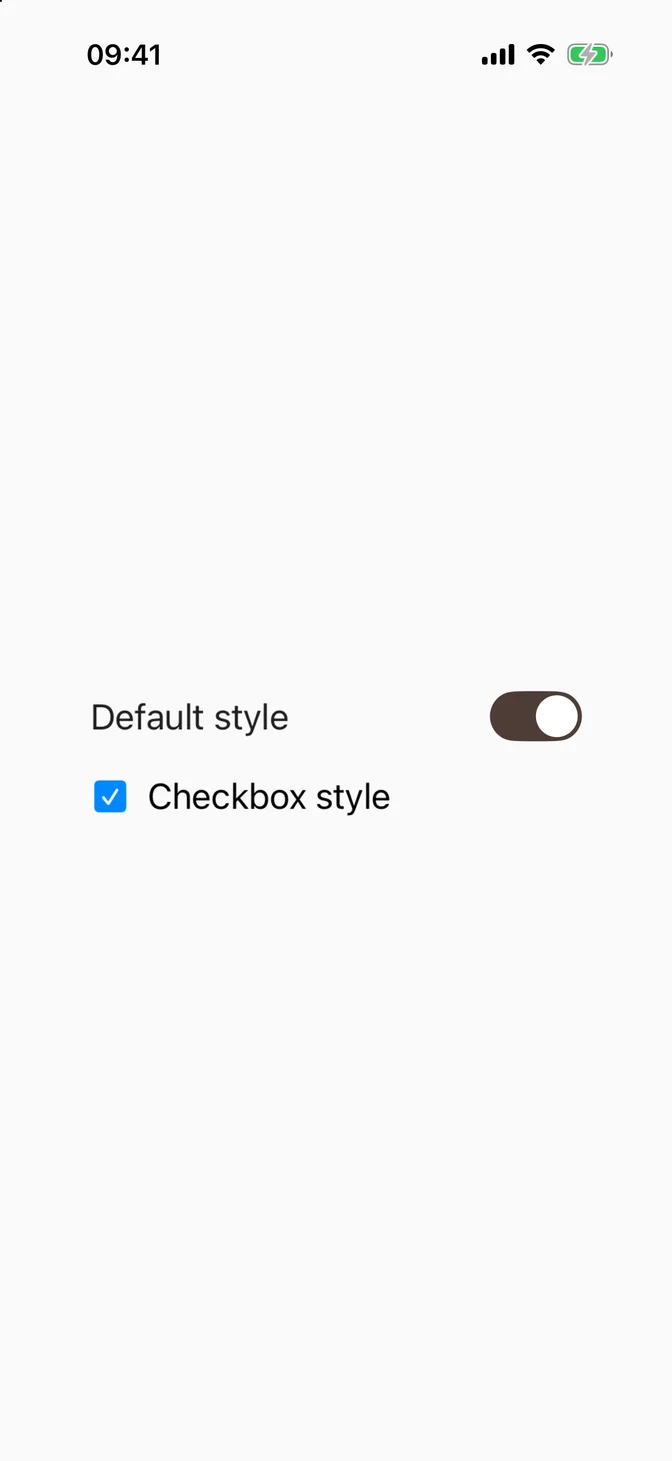
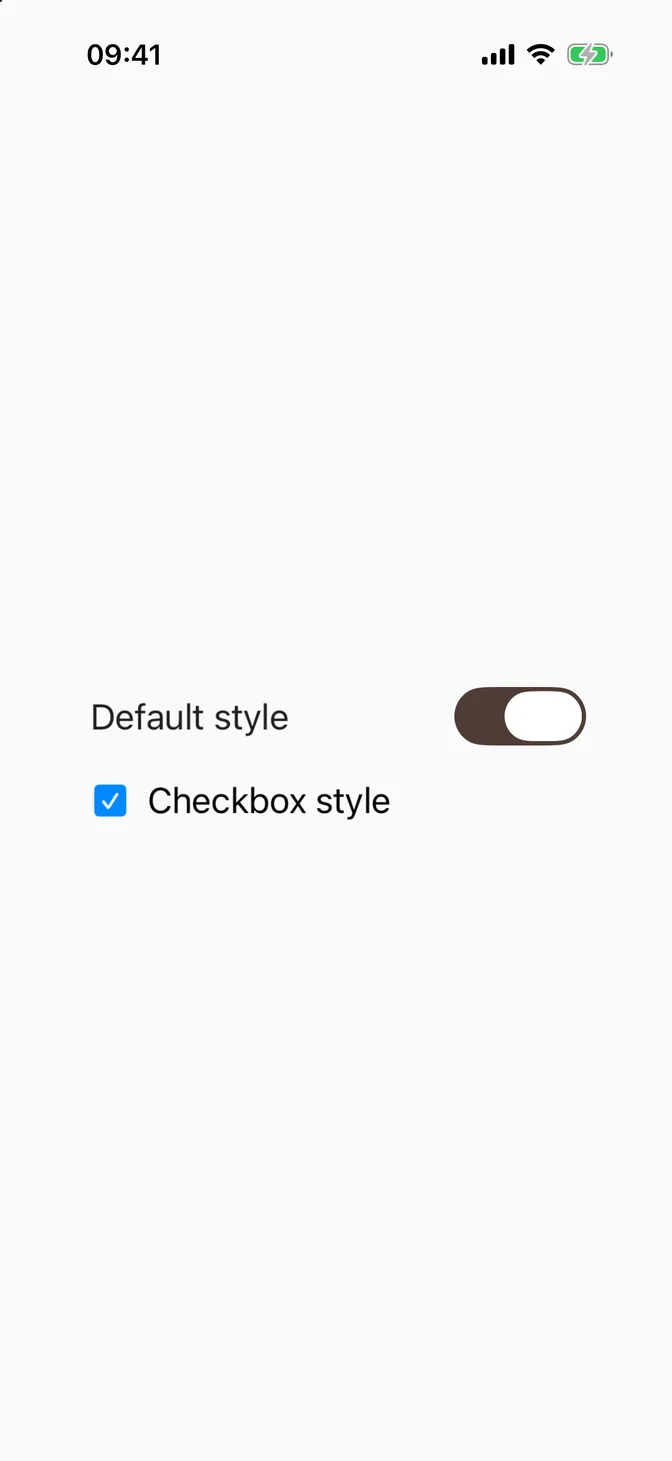
Restore the Default dark primary and tint only the switch
- Default preset, globals.css and the theme picker swatch go back to the
  near-white dark primary with dark text.
- The iOS switch track uses the light-mode primary in both appearances,
  since the native thumb is always white; the Toggle page says so.
- Recapture the Toggle previews (iOS and macOS) with the native controls.
- Rebuild public/r.

Changed region(s): [[0.6562, 0.462, 0.875, 0.5236], [0.2188, 0.5236, 0.5938, 0.5544], [0.125, 0.5236, 0.1875, 0.5852]]

diff --git a/registry/components/toggle/FLXToggleStyle+iOS.swift b/registry/components/toggle/FLXToggleStyle+iOS.swift
@@ -1,5 +1,6 @@
 #if os(iOS)
 import SwiftUI
+import UIKit
 
 struct FLXToggleStyleBody: View {
     @Environment(\.flxTheme) private var theme
@@ -9,9 +10,17 @@ struct FLXToggleStyleBody: View {
     var body: some View {
         Toggle(configuration)
             .toggleStyle(.switch)
-            .tint(theme.colors.primary)
+            .tint(trackTint)
             .flxFont(.body)
             .foregroundStyle(theme.colors.foreground)
+    }
+
+    /// The native switch's thumb is always white, so a light dark-mode `primary`
+    /// (shadcn's near-white) would hide it. The track keeps the light-mode
+    /// `primary` in both appearances instead.
+    private var trackTint: Color {
+        let light = UITraitCollection(userInterfaceStyle: .light)
+        return Color(uiColor: UIColor(theme.colors.primary).resolvedColor(with: light))
     }
 }
 #endif

diff --git a/registry/design-system/Theme/Presets/FLXTheme+Default.swift b/registry/design-system/Theme/Presets/FLXTheme+Default.swift
@@ -29,11 +29,11 @@ extension FLXTheme {
             ),
             primary: Color(
                 flxLight: Color(red: 0.3060, green: 0.2392, blue: 0.2157),
-                dark: Color(red: 0.5412, green: 0.4157, blue: 0.3686)
+                dark: Color(red: 0.9883, green: 0.9883, blue: 0.9883)
             ),
             primaryForeground: Color(
                 flxLight: Color(red: 1.0000, green: 1.0000, blue: 1.0000),
-                dark: Color(red: 1.0000, green: 1.0000, blue: 1.0000)
+                dark: Color(red: 0.0313, green: 0.1019, blue: 0.1059)
             ),
             secondary: Color(
                 flxLight: Color(red: 0.9411, green: 0.9411, blue: 0.9411),

diff --git a/app/(home)/components/showcase/theme-picker.tsx b/app/(home)/components/showcase/theme-picker.tsx
@@ -5,7 +5,7 @@ import { cn } from "@/lib/utils"
 export type ShowcaseTheme = "default" | "sienna"
 
 const themes: { id: ShowcaseTheme; name: string; swatch: string }[] = [
-  { id: "default", name: "Default", swatch: "bg-[#4e3d37] dark:bg-[#8a6a5e]" },
+  { id: "default", name: "Default", swatch: "bg-[#4e3d37] dark:bg-[#fcfcfc]" },
   { id: "sienna", name: "Sienna", swatch: "bg-[#cb4832]" },
 ]
 

diff --git a/app/globals.css b/app/globals.css
@@ -227,8 +227,8 @@
   --card-foreground: #eeeeee;
   --popover: #191919;
   --popover-foreground: #eeeeee;
-  --primary: #8a6a5e;
-  --primary-foreground: #ffffff;
+  --primary: #fcfcfc;
+  --primary-foreground: #081a1b;
   --secondary: #1f1e1c;
   --secondary-foreground: #ffffff;
   --muted: #222222;
